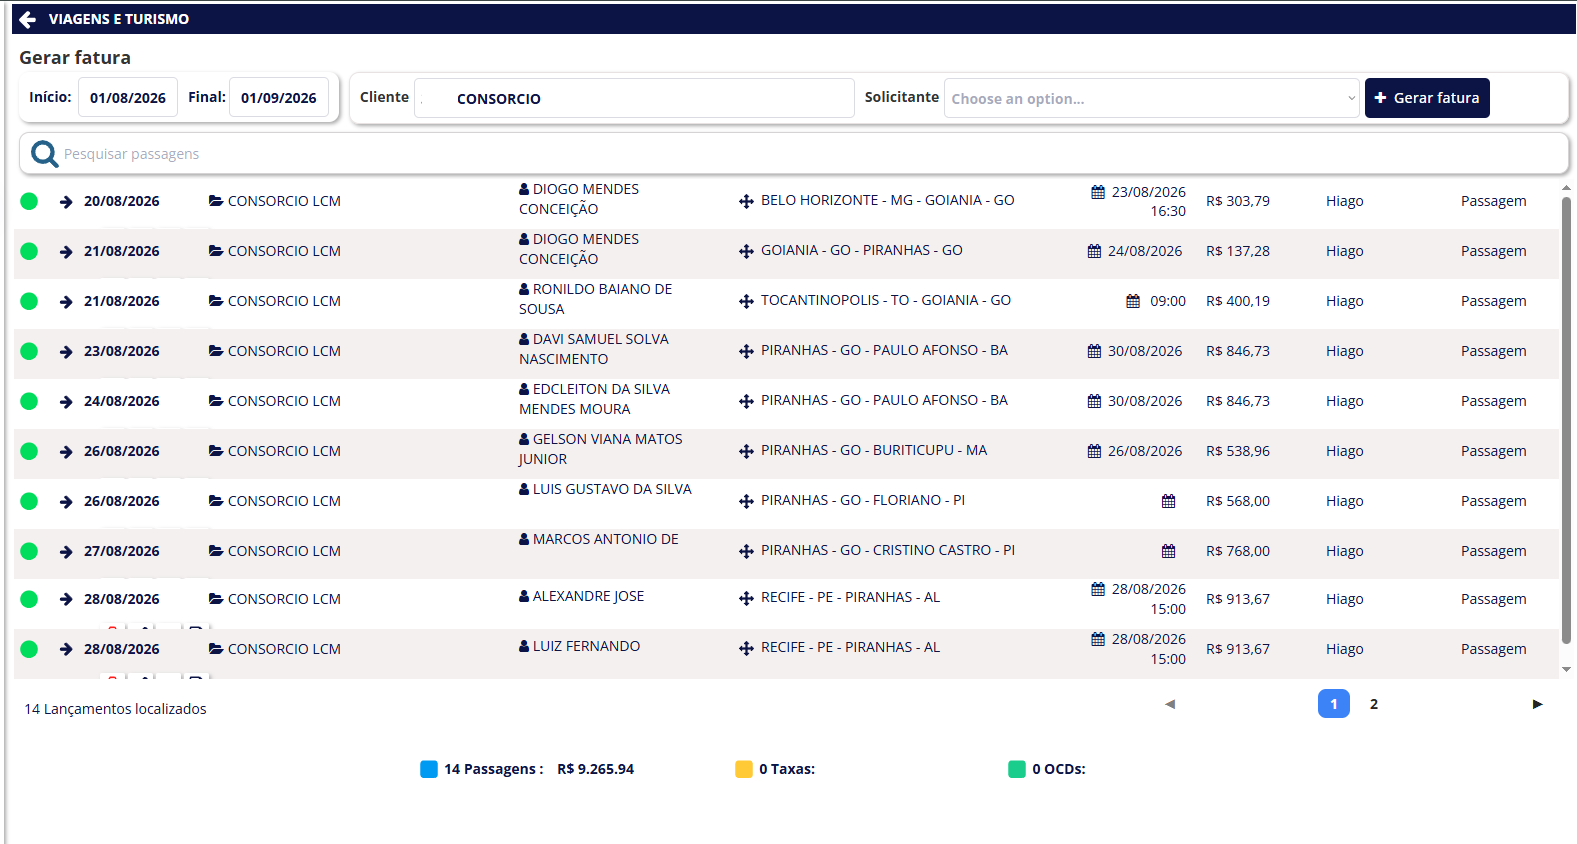
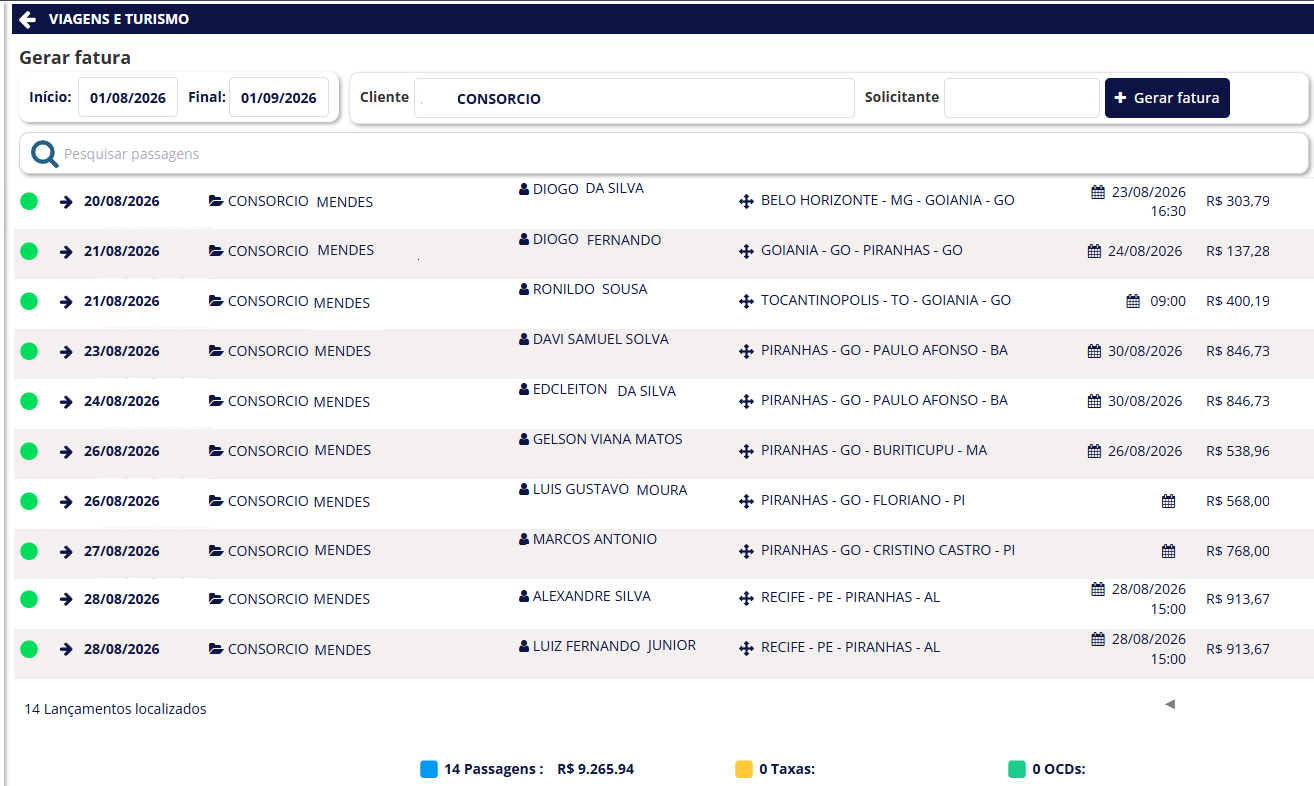
Ajusta headline do hero e atualiza screenshot de geração de fatura

diff --git a/index.html b/index.html
@@ -162,7 +162,7 @@
           Para agências de passagens terrestres e aéreas
         </span>
         <h1 class="mt-6 text-4xl font-black leading-[1.08] tracking-tight sm:text-5xl lg:text-6xl">
-          Emita e fature passagens corporativas <span class="text-brand-400">sem planilha nenhuma</span>.
+          Emita e fature passagens corporativas <span class="text-brand-400">chega de planlhas!!</span>.
         </h1>
         <p class="mt-6 max-w-xl text-lg leading-relaxed text-white">
           O cliente solicita, a agência emite o bilhete, cadastra no sistema, no fim do mês, fecha tudo em uma
